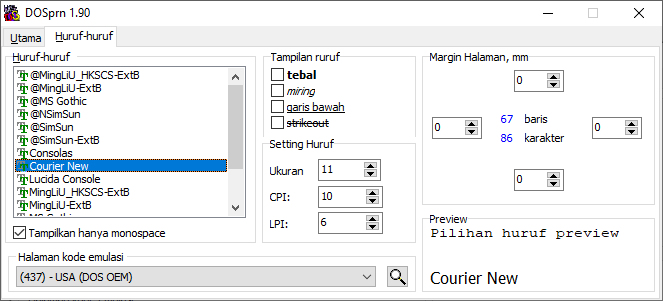
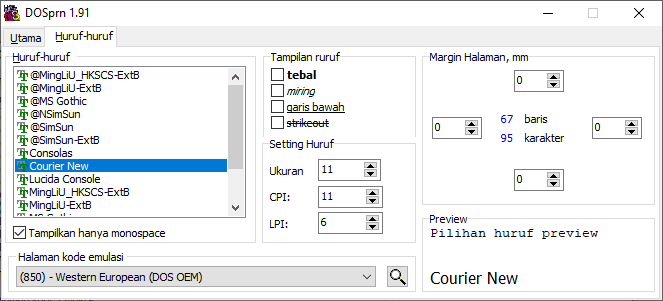
1.91

diff --git a/readme.htm b/readme.htm
@@ -1,5 +1,5 @@
 <!DOCTYPE HTML PUBLIC "-//W3C//DTD HTML 4.0 Transitional//EN">
-<HTML><HEAD><TITLE>Manual DOSPRN 1.90</TITLE>
+<HTML><HEAD><TITLE>Manual DOSPRN 1.91</TITLE>
 <META http-equiv="Content-Type" content="text/html; charset=utf-8">
 <META http-equiv="Content-Language" content="id">
 <META name="Keywords"  content="DOS, printers, program, print, printer, USB, programs, LPT, DOS program, software, national, language, internanional" >
@@ -23,7 +23,7 @@
     <TD width="100%">      <table border="0" cellspacing="0" cellpadding="0">
         <tr>
           <td width="50"><IMG src="images/logo.gif" ALT="Mencetak dari DOS di ke/terhadap printer ber jalan pada Windows98, WinXP, Windows2000" width="42" height="39"></td>
-          <td width="281"><font size="6"><b>DOSPRN </b></font><font size="6"><b>1.90</b></font></td>
+          <td width="281"><font size="6"><b>DOSPRN </b></font><font size="6"><b>1.91</b></font></td>
           <td width="194">      
       <table border="2" bgcolor="#C0C0C0" cellpadding="4" cellspacing="4">
         <tr>
@@ -54,7 +54,7 @@
       <P>DOSPRN membantu untuk mengakhiri masalah ini. Anda dapat menggunakan ini dengan program DOS dan mengkombinasikan printer.</P>
       <P align="justify">DOSPRN didistribusikan sebagai<B> Shareware </B>Anda dapat pelajari bagaimana menggunakan DOSPRN selama waktu percobaan. Setelah periode ini, anda harus registrasi copyan anda atau hapus ini secara permanen dari komputer anda dengan utility uninstall pada Group Program DOSPRN. .</P>
       <H3 align="justify">Installasi</H3>
-      <P align="justify">Download dan jalankan file extract <I> <a href="https://dosprn.com/DOSprn190.exe">DOSprn190.exe</a></I> . Anda akan ditanyai beberapa pertanya-pertanyaan sederhana. Selama instalasi, DOSPRN mengcopy semua file yang diperlukan dan shortcut ke komputer anda. .</P>
+      <P align="justify">Download dan jalankan file extract <I> <a href="https://dosprn.com/DOSprn191.exe">DOSprn191.exe</a></I> . Anda akan ditanyai beberapa pertanya-pertanyaan sederhana. Selama instalasi, DOSPRN mengcopy semua file yang diperlukan dan shortcut ke komputer anda. .</P>
       <H3 align="justify">Program Start</H3>Anda dapat memulai DOSPRN dengan mengklik shotcut pada desktop anda atau pada forlder &quot;Statup&quot; (dalam hal ini anda telah memilih opsi ini selama penginstallan). Setalah menjalan DOSPRN, anda dapat menemukan iconnya pada area tray (dekat jam system, biasanya pada pojok kanan bawah), <IMG src="images/trayw8.gif" alt="Display icon and progress of printing in tray area" align="absMiddle" border="0"> DOSPRN siap untuk bekerja. . 
       <H3>Fitur-fitur Program</H3>
       <P>Jika anda klik kanan icon DOSPRN pada tray menu, anda akan melihat satu menu windows kecil. Menu ini memberikan akses ke opsi program utama. Opsi-opsi menu :<IMG src="images/popup.gif" ALT="Mangatur pencetakan DOS dengan menu popup" align="right" 

diff --git a/index.htm b/index.htm
@@ -1,6 +1,6 @@
 <!DOCTYPE HTML PUBLIC "-//W3C//DTD HTML 4.0 Transitional//EN">
 <HTML><HEAD><META name="verify-v1" content="sGZcTdiuqcbY81ijEB5h/fiesdTJtZN5i2KgOh+onKY=" /> 
-<TITLE>DOSPRN 1.90. Mencetak ke printer windows dari program dos</TITLE>
+<TITLE>DOSPRN 1.91. Mencetak ke printer windows dari program dos</TITLE>
 <META http-equiv="Content-Type" content="text/html; charset=utf-8">
 <META http-equiv="Content-Language" content="id">
 <META name="Keywords" content="mencetak printer dos,DOS, win, windows, win2k, windows2000, program, USB, program, LPT, program DOS, software, nasional, bahasa, international">
@@ -23,7 +23,7 @@
       <table border="0" cellspacing="0" cellpadding="0">
         <tr>
           <td width="50"><IMG src="images/logo.gif" ALT="Mencetak dari DOS di ke/terhadap printer ber jalan pada Windows98, WinXP, Windows2000" width="42" height="39"></td>
-          <td width="281"><font size="5"><b>DOSPRN&nbsp;1.90</b></font></td>
+          <td width="281"><font size="5"><b>DOSPRN&nbsp;1.91</b></font></td>
           <td width="194">      
       <table border="2" bgcolor="#C0C0C0" cellpadding="4" cellspacing="4">
         <tr>
@@ -55,7 +55,7 @@
       <P>DOSPRN memungkinkan anda untuk menggunakan satu program DOS tua baik dengan <b> baru</b> <b> printer</b> tanpa tergantung dari jenis mereka (Ya, USB dan printer jaringan, print-servers, dan PDF-printers juga!)</P>
       <P align="center"><IMG height="200" src="images/fontsw8.png" ALT="Windows huruf-huruf TrueType secara terpilih"></P>
       <P>DOSPRN juga bermanfaat jika satu program DOS adalah di/dalam anda <b> bahasa anda</b>. Jika printer anda tidak mendukung bahasa anda di/dalam gaya teks, DOSPRN akan satu penolong baik.</P>
-      <P>DOSPRN adalah didistribusikan sebagai shareware. Download ini <I><B> <A href="https://dosprn.com/DOSprn190.exe"> SEKARANG</A></B></I> 
+      <P>DOSPRN adalah didistribusikan sebagai shareware. Download ini <I><B> <A href="https://dosprn.com/DOSprn191.exe"> SEKARANG</A></B></I> 
       </P></TD></TR>
   <TR>
     <TD align="middle" width="550" height="26">

diff --git a/download.htm b/download.htm
@@ -1,5 +1,5 @@
 <!DOCTYPE HTML PUBLIC "-//W3C//DTD HTML 4.0 Transitional//EN">
-<HTML><HEAD><TITLE>download DOSPRN 1.90 sekarang</TITLE>
+<HTML><HEAD><TITLE>download DOSPRN 1.91 sekarang</TITLE>
 <META http-equiv="Content-Language" content="id">
 <META http-equiv="Content-Type" content="text/html; charset=utf-8">
 <META name="Keywords"  content="download dosprn" >
@@ -22,7 +22,7 @@
     <TD width="100%">      <table border="0" cellspacing="0" cellpadding="0">
         <tr>
           <td width="50"><IMG src="images/logo.gif" ALT="Mencetak dari DOS di ke/terhadap printer ber jalan pada Windows98, WinXP, Windows2000" width="42" height="39"></td>
-          <td width="281"><font size="6"><b>DOSPRN </b></font><font size="6"><b>1.90</b></font></td>
+          <td width="281"><font size="6"><b>DOSPRN </b></font><font size="6"><b>1.91</b></font></td>
           <td width="194">      
       <table border="2" bgcolor="#C0C0C0" cellpadding="4" cellspacing="4">
         <tr>
@@ -53,9 +53,9 @@
       <p>Kita betul-betul merekomendasikan bahwa anda secara menyeluruh me-review <satu href="readme.htm">Manual DOSPRN</satu> dan <satu href="faq.htm">kita FAQ</satu>.<br>
       <br>
 
-      <a href="https://dosprn.com/DOSprn190.exe">
+      <a href="https://dosprn.com/DOSprn191.exe">
 
-      Klik di sini untuk mendownload file <i>DOSprn190.exe (1.7 Mb)</i></a><br>
+      Klik di sini untuk mendownload file <i>DOSprn191.exe (1.7 Mb)</i></a><br>
       <br>
       DOSPRN akan mengingatkan anda tentang registrasi setiap kali anda cetakan laporan dari aplikasi DOS anda. Jika anda mempunyai pertanyaan apapun tentang DOSPRN silahkan merasakan bebas ke/pada <satu href="mailto:dukungan@dosprn.com"> menghubungi kami</satu>.</p>
       <p></p></TD></TR>

diff --git a/vox.htm b/vox.htm
@@ -1,5 +1,5 @@
 <!DOCTYPE HTML PUBLIC "-//W3C//DTD HTML 4.0 Transitional//EN">
-<HTML><HEAD><TITLE>DOSPRN 1.90 testimonials and user reviews</TITLE>
+<HTML><HEAD><TITLE>DOSPRN 1.91 testimonials and user reviews</TITLE>
 <META http-equiv=Content-Language content=en-us>
 <META http-equiv=Content-Type content="text/html; charset=utf-8">
 <META name=Description content="What spoke ordinary users and writers in technical reviews about DOSPRN software">
@@ -20,7 +20,7 @@
 <TABLE cellSpacing=0 cellPadding=6 width=50% style="max-width:640px" border=0>
   <TR>
     <TD width=100%>
-      <div style="float:left"><IMG src="images/logo.gif" ALT="DOS USB print under Windows 8, Windows 7, Windows XP, Windows2000, Windows98"> <font size="5"><b>&nbsp;DOSPRN&nbsp;1.90&nbsp;</b></font></div>
+      <div style="float:left"><IMG src="images/logo.gif" ALT="DOS USB print under Windows 8, Windows 7, Windows XP, Windows2000, Windows98"> <font size="5"><b>&nbsp;DOSPRN&nbsp;1.91&nbsp;</b></font></div>
   
       <table border="2" bgcolor="#C0C0C0" cellpadding="4" cellspacing="4">
         <tr>
@@ -149,7 +149,7 @@
           </td>
         </tr>
         <tr>
-          <td><i>Francis G. McCloskey &lt;FrFrancis&#64;OhSaratoga.com&gt;</i><p>&quot;...A small bunch of us are still using DOSprn 1.90 with out DOS EnableOA program and think it's 
+          <td><i>Francis G. McCloskey &lt;FrFrancis&#64;OhSaratoga.com&gt;</i><p>&quot;...A small bunch of us are still using DOSprn 1.91 with out DOS EnableOA program and think it's 
 	  the best DOS to Windows printers program out there..........&quot;</p>
           <hr width="90%" color="#008000">
           </td>

diff --git a/order.htm b/order.htm
@@ -1,5 +1,5 @@
 <!DOCTYPE HTML PUBLIC "-//W3C//DTD HTML 4.0 Transitional//EN">
-<HTML><HEAD><TITLE>order pencetakan dos DOSPRN 1.90</TITLE>
+<HTML><HEAD><TITLE>order pencetakan dos DOSPRN 1.91</TITLE>
 <META http-equiv="Content-Language" content="id">
 <META http-equiv="Content-Type" content="text/html; charset=utf-8">
 <META name="Keywords"  content="DOS print order, DSO print purchase, printers, program, print, printer, USB, programs, LPT, DOS program, software, national, language, internanional" >
@@ -23,7 +23,7 @@
     <TD width="100%">      <table border="0" cellspacing="0" cellpadding="0">
         <tr>
           <td width="50"><IMG src="images/logo.gif" ALT="Mencetak dari DOS di ke/terhadap printer ber jalan pada Windows98, WinXP, Windows2000" width="42" height="39"></td>
-          <td width="281"><font size="6"><b>DOSPRN </b></font><font size="6"><b>1.90</b></font></td>
+          <td width="281"><font size="6"><b>DOSPRN </b></font><font size="6"><b>1.91</b></font></td>
           <td width="194">      
       <table border="2" bgcolor="#C0C0C0" cellpadding="4" cellspacing="4">
         <tr>
@@ -65,7 +65,7 @@
 
       <P>
       If your DOSPRN's trial period has been expired now you can download and install
-      a <a href="https://dosprn.com/DOSprn190.exe">special "vacation" build</a> of DOSPRN 1.90. The trial period will be 
+      a <a href="https://dosprn.com/DOSprn191.exe">special "vacation" build</a> of DOSPRN 1.91. The trial period will be 
       expanded up to August, 1.
       </P>
 -->

diff --git a/sequences.htm b/sequences.htm
@@ -1,5 +1,5 @@
 <!DOCTYPE HTML PUBLIC "-//W3C//DTD HTML 4.0 Transitional//EN">
-<HTML><HEAD><TITLE>DOSPRN 1.90 supported ESC sequences</TITLE>
+<HTML><HEAD><TITLE>DOSPRN 1.91 supported ESC sequences</TITLE>
 <META http-equiv="Content-Type" content="text/html; charset=utf-8">
 <META name="Keywords"  content="dos printer driver, dos printer, dos usb driver, dos print command, DOS, printers, program, print, printer, USB, programs, LPT, DOS program, software, national, language, internanional" >
 <META name="Description"  content="DOSPRN memungkinkan untuk gunakan program dos favorit anda dengan printer-printer baru secara independen dari tipe-tipenya (ya dan USB juga !)" ><meta http-equiv="Content-Language" content="id"><!-- by Sisulizer -->
@@ -22,7 +22,7 @@
     <TD width="100%">      <table border="0" cellspacing="0" cellpadding="0" width="630">
         <tr>
           <td width="50"><IMG src="images/logo.gif" ALT="Mencetak dari DOS di ke/terhadap printer ber jalan pada Windows98, WinXP, Windows2000" width="42" height="39"></td>
-          <td width="345"><font size="6"><b>DOSPRN </b></font><font size="6"><b>1.90</b></font></td>
+          <td width="345"><font size="6"><b>DOSPRN </b></font><font size="6"><b>1.91</b></font></td>
           <td width="229">      
       <table border="2" bgcolor="#C0C0C0" cellpadding="4" cellspacing="4">
         <tr>

diff --git a/languages.htm b/languages.htm
@@ -5,7 +5,7 @@
 <meta name="Description" content="DOSPRN memungkinkan untuk gunakan program dos favorit anda dengan printer-printer baru secara independen dari tipe-tipenya (ya dan USB juga !)">
 <meta name="GENERATOR" content="Microsoft FrontPage 6.0">
 <meta name="ProgId" content="FrontPage.Editor.Document">
-<TITLE>Bahasa-bahasa yang didukung DOSPRN 1.90</TITLE>
+<TITLE>Bahasa-bahasa yang didukung DOSPRN 1.91</TITLE>
 <meta http-equiv="Content-Language" content="id"><!-- by Sisulizer -->
 <meta name=viewport content="width=device-width, initial-scale=1">
 
@@ -26,7 +26,7 @@
     <TD width="100%">      <table border="0" cellspacing="0" cellpadding="0">
         <tr>
           <td width="50"><IMG src="images/logo.gif" ALT="Mencetak dari DOS di ke/terhadap printer ber jalan pada Windows98, WinXP, Windows2000" width="42" height="39"></td>
-          <td width="281"><font size="6"><b>DOSPRN </b></font><font size="6"><b>1.90</b></font></td>
+          <td width="281"><font size="6"><b>DOSPRN </b></font><font size="6"><b>1.91</b></font></td>
           <td width="194">      
       <table border="2" bgcolor="#C0C0C0" cellpadding="4" cellspacing="4">
         <tr>

diff --git a/login.htm b/login.htm
@@ -1,5 +1,5 @@
 <!DOCTYPE HTML PUBLIC "-//W3C//DTD HTML 4.0 Transitional//EN">
-<HTML><HEAD><TITLE>DOSPRN 1.90 login user yang telah registrasi</TITLE>
+<HTML><HEAD><TITLE>DOSPRN 1.91 login user yang telah registrasi</TITLE>
 <META http-equiv="Content-Language" content="id">
 <META http-equiv="Content-Type" content="text/html; charset=utf-8">
 <META name="Keywords"  content="dos printer driver, dos printer, dos usb driver, dos print command, DOS, printers, program, print, printer, USB, programs, LPT, DOS program, software, national, language, internanional" >
@@ -22,7 +22,7 @@
     <TD width="100%">      <table border="0" cellspacing="0" cellpadding="0">
         <tr>
           <td width="50"><IMG src="images/logo.gif" ALT="Mencetak dari DOS di ke/terhadap printer ber jalan pada Windows98, WinXP, Windows2000" width="42" height="39"></td>
-          <td width="281"><font size="6"><b>DOSPRN </b></font><font size="6"><b>1.90</b></font></td>
+          <td width="281"><font size="6"><b>DOSPRN </b></font><font size="6"><b>1.91</b></font></td>
           <td width="194">      
       <table border="2" bgcolor="#C0C0C0" cellpadding="4" cellspacing="4">
         <tr>

diff --git a/codepages.htm b/codepages.htm
@@ -1,4 +1,4 @@
-<HTML><HEAD><TITLE>DOSPRN-1.90-codepages-support</TITLE>
+<HTML><HEAD><TITLE>DOSPRN-1.91-codepages-support</TITLE>
 <META http-equiv="Content-Type" content="text/html; charset=utf-8">
 <META name="Keywords" content="driver dos printer, kode dos, dos codepages, dos codepages, dos printer, driver dos usb, driver dos cetakan, DOS, printer, program, cetakan, printer, USB, program, LPT, Program DOS, perangkat lunak, nasional, bahasa, internanional">
 <META name="Description" content="DOSPRN memungkinkan untuk gunakan program dos favorit anda dengan printer-printer baru secara independen dari tipe-tipenya (ya dan USB juga !)"><meta http-equiv="Content-Language" content="id"><!-- by Sisulizer -->
@@ -22,7 +22,7 @@
 
 <TR>
 <TD width="50"><IMG height="39" alt="Mencetak dari DOS di ke/terhadap printer ber jalan pada Windows98, WinXP, Windows2000" src="images/logo.gif" width="42"></TD>
-<TD width="281"><FONT size="6"><B>DOSPRN 1.90</B></FONT></TD>
+<TD width="281"><FONT size="6"><B>DOSPRN 1.91</B></FONT></TD>
 <TD width="194">
 <TABLE cellSpacing="4" cellPadding="4" bgColor="#c0c0c0" border="2">
 

diff --git a/news.htm b/news.htm
@@ -1,5 +1,5 @@
 <!DOCTYPE HTML PUBLIC "-//W3C//DTD HTML 4.0 Transitional//EN">
-<HTML><HEAD><TITLE>Bagian baru DOSPRN 1.90</TITLE>
+<HTML><HEAD><TITLE>Bagian baru DOSPRN 1.91</TITLE>
 <META http-equiv="Content-Language" content="id">
 <META http-equiv="Content-Type" content="text/html; charset=utf-8">
 <META name="Keywords"  content="berita pencetakan dos, driver dos printer, printer dos, driver printer usb, perintah pencetakan dos, DOS, printer-printer, program, pencetakan, printer, USB, programs, LPT, program DOS, software, nasional, bahasa, international" >
@@ -51,6 +51,11 @@
   <TR>
     <TD width="100%">
       <H3>Hal Baru</H3>
+      <P><B>Version 1.91</B></P>
+      + dukungan tambahan port paralel yang diperluas LPT4..LPT8<br>
+      * mode senyap tetap untuk aplikasi DOS layar penuh<br>
+      * memperbaiki opsi baris perintah "dialog"<br>
+      * perbaikan bug kecil<br>
       <P><B>Version 1.90</B></P>
       * perbaikan bug untuk komputer lama dengan perangkat keras LPTx<br>
       * versi lama DOSBOX dan vDos didukung<br>

diff --git a/faq.htm b/faq.htm
@@ -1,5 +1,5 @@
 <!DOCTYPE HTML PUBLIC "-//W3C//DTD HTML 4.0 Transitional//EN">
-<HTML><HEAD><TITLE>Halaman FAQ DOSPRN 1.90</TITLE>
+<HTML><HEAD><TITLE>Halaman FAQ DOSPRN 1.91</TITLE>
 <META http-equiv="Content-Language" content="id">
 <META http-equiv="Content-Type" content="text/html; charset=utf-8">
 <META name="Description" content="Jawaban diatas sering ditanyakan untuk DOSPRN dan pencetakan dos printer">
@@ -23,7 +23,7 @@
     <TD width="100%">      <table border="0" cellspacing="0" cellpadding="0">
         <tr>
           <td width="50"><IMG src="images/logo.gif" ALT="Mencetak dari DOS di ke/terhadap printer ber jalan pada Windows98, WinXP, Windows2000" width="42" height="39"></td>
-          <td width="281"><font size="6"><b>DOSPRN </b></font><font size="6"><b>1.90</b></font></td>
+          <td width="281"><font size="6"><b>DOSPRN </b></font><font size="6"><b>1.91</b></font></td>
           <td width="194">      
       <table border="2" bgcolor="#C0C0C0" cellpadding="4" cellspacing="4">
         <tr>

diff --git a/awards.htm b/awards.htm
@@ -1,5 +1,5 @@
 <!DOCTYPE HTML PUBLIC "-//W3C//DTD HTML 4.0 Transitional//EN">
-<HTML><HEAD><TITLE>DOSPRN 1.90 awards</TITLE>
+<HTML><HEAD><TITLE>DOSPRN 1.91 awards</TITLE>
 <META http-equiv=Content-Language content=en-us>
 <META http-equiv=Content-Type content="text/html; charset=utf-8">
 <META name=Description content="DOSPRN software awarded by software directories">
@@ -19,7 +19,7 @@
 <TABLE cellSpacing=0 cellPadding=6 width=50% style="max-width:640px" border=0>
   <TR>
     <TD width=100%>
-      <div style="float:left"><IMG src="images/logo.gif" ALT="DOS USB print under Windows 8, Windows 7, Windows XP, Windows2000, Windows98"> <font size="5"><b>&nbsp;DOSPRN&nbsp;1.90&nbsp;</b></font></div>
+      <div style="float:left"><IMG src="images/logo.gif" ALT="DOS USB print under Windows 8, Windows 7, Windows XP, Windows2000, Windows98"> <font size="5"><b>&nbsp;DOSPRN&nbsp;1.91&nbsp;</b></font></div>
   
       <table border="2" bgcolor="#C0C0C0" cellpadding="4" cellspacing="4">
         <tr>
